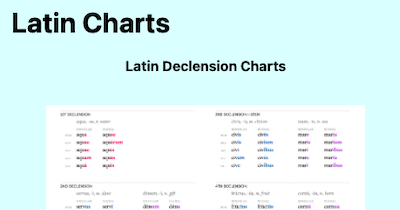
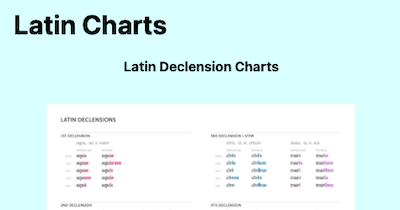
Update Charts page to include all conjugations, declensions, and pronouns

diff --git a/charts.html b/charts.html
@@ -29,12 +29,18 @@
         <h1>Latin Charts</h1>
 
         <p class="header">Latin Declension Charts</p>
-        <img class="image" src="images/latin-declensions.png" alt=" Latin Declensions">
+        <img class="image" src="images/latin-declensions.jpg" alt=" Latin Declensions">
 
         <p class="header">Latin Conjugation Charts</p>
-        <img class="image" src="images/latin-conjugations.png" alt=" Latin Conjugations">
+        <img class="image" src="images/latin-1st-conjugation.jpg" alt=" Latin 1st Conjugation">
+        <img class="image" src="images/latin-2nd-conjugation.jpg" alt=" Latin 2nd Conjugation">
+        <img class="image" src="images/latin-3rd-conjugation.jpg" alt=" Latin 3rd Conjugation">
+        <img class="image" src="images/latin-3rdio-conjugation.jpg" alt=" Latin 3rd IO Conjugation">
+        <img class="image" src="images/latin-4th-conjugation.jpg" alt=" Latin 4th Conjugation">
 
         <p class="header">Latin Pronouns Charts</p>
-        <img class="image" src="images/latin-pronouns.png" alt=" Latin Pronouns">
+        <img class="image" src="images/latin-pronouns.jpg" alt=" Latin Pronouns">
+
+        <p class="center">Charts from <a class="linkinline" href="https://bencrowder.net/">bencrowder.net</a></p>
     </body>
 </html>
